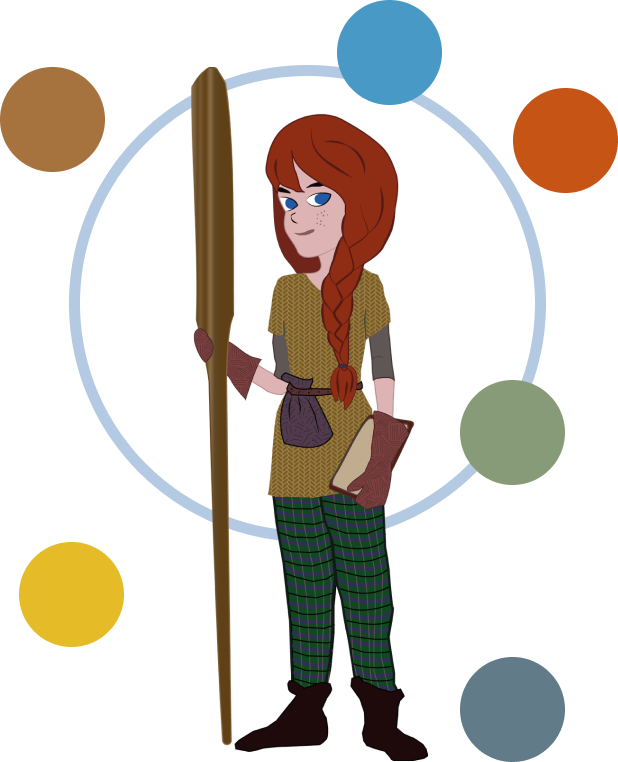
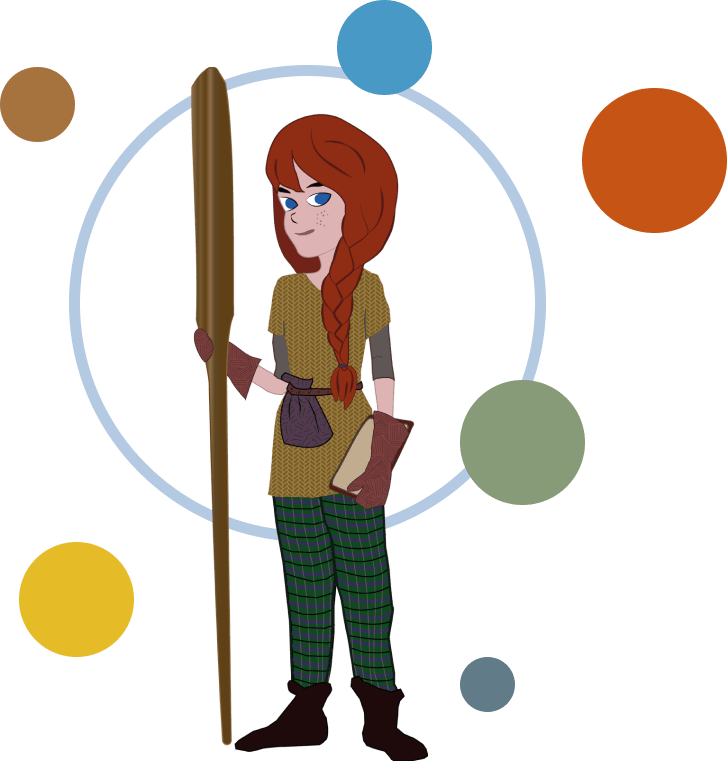
improve layout

diff --git a/index.html b/index.html
@@ -21,8 +21,8 @@
       <a class="link dim dark-blue f4 fw5 dib" href="/about.html" title="About the Tolerant Futures project">About</a>
     </div>
   </nav>
-  <div class="pa3 ph5-l mv4-m mv5-l flex justify-around items-center mw8 center">
-    <main class="pa3">
+  <div class="pa3 ph4-m ph5-l mv4-m mv5-l flex justify-around items-center mw8 center">
+    <main class="tc tl-ns">
       <h1 class="f2 f1-ns mb3 dark-blue">Chatterpast</h1>
       <h2 class="f4 f3-ns fw5 dark-blue">
         Tolerant Futures through Ancient Identities
@@ -30,8 +30,8 @@
       <p class="f4 measure center ">Use our magical messaging app to explore life in Iron Age and Roman Britannia with Enica and her friends. Chat directly with them and discover their unique stories from across Scotland, England and Wales. Question them about their lives and experiences and reflect on how these relate to the present.</p>
       <a class="f3 fw6 grow no-underline br-pill ph4 pv3 mv3 dib white bg-dark-blue" href="/chat">Chat with the past</a>
     </main>  
-    <div class="sidebar dn db-ns pa3">
-      <img class="mw-100" src="/assets/img/character-enica-circles.png" alt="Enica with her paddle">
+    <div class="sidebar dn db-ns">
+      <img class="w-120" src="/assets/img/character-enica-circles.png" alt="Enica with her paddle">
     </div>
   </div>
   <div class="relative ph3 ph5-l pb3 pt5 pt6-l tc overflow-hidden">

diff --git a/assets/css/styles.css b/assets/css/styles.css
@@ -19,7 +19,10 @@
 .sidebar img {
   max-height: 700px;
 }
-
+.w-120 {
+  width: 120%;
+  max-width: none;
+}
 .flip-h {
   transform: scale(-1, 1);
 }
